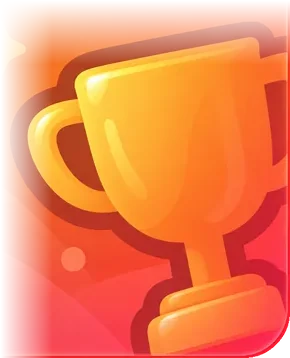
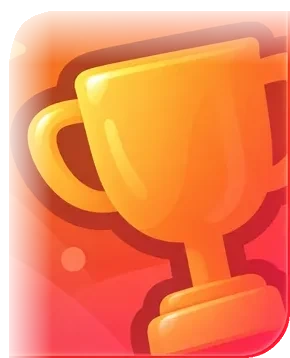
Startseite Handy und iPad: Kacheln mit gezeichneten Grafiken, schwarzer Saum der Kachel-Bilder entfernt (ep-2026-10-25-13)
Claude-Session: https://claude.ai/code/session_015F4ypguKCiePf7SvTB76p6

Changed region(s): [[0.1552, 0.0, 1.0, 0.0307], [0.0, 0.1536, 0.031, 1.0], [0.031, 0.0307, 0.1552, 0.1536]]

diff --git a/stil.js b/stil.js
@@ -736,3 +736,40 @@ const app = document.getElementById("app");
 if(app) new MutationObserver(suchen).observe(app, {childList:true, subtree:true});
 suchen();
 })();
+
+/* ================= Kacheln der Startseite Handy und iPad (App-Ansicht .ap-heute) mit gezeichneten Grafiken ================= */
+(function(){
+// Grund als Neun-Teile-Bild (Ecken und Rand unverzerrt), Symbol bündig rechts unten im selben Massstab wie der Rahmen,
+// so liegen die Rahmen genau aufeinander und nichts wird abgeschnitten. --s = Massstab je Kachel (unten per ResizeObserver).
+const K = "img/kacheln/", T = "html:root body .ap-heute";
+const G = {serie:[269,301], wissen:[288,337], level:[325,288], tag:[252,344], live:[252,287], fehler:[336,324], abzeichen:[290,358]};
+const M = {zufall:"serie", lib:"wissen", profil:"level", chat:"tag", live:"live", fehler:"fehler"};
+const s = "var(--s,.25)";
+const grund = n => `border-image:url(${K}${n}-grund.webp) 60 60 66 60 fill/calc(60px*${s}) calc(60px*${s}) calc(66px*${s}) calc(60px*${s}) stretch!important;border-style:solid!important;border-width:0!important;border-color:transparent!important;background:transparent!important`;
+const sym = n => `content:""!important;display:block!important;position:absolute!important;right:0!important;bottom:0!important;top:auto!important;left:auto!important;width:calc(${G[n][0]}px*${s})!important;height:calc(${G[n][1]}px*${s})!important;background:url(${K}${n}-symbol.webp) 0 0/100% 100% no-repeat!important;border-radius:0!important;opacity:1!important;transform:none!important;filter:none!important;animation:none!important;pointer-events:none;z-index:0!important`;
+const A = `${T} :is(.ap-tag>.apf,.ap-woche,.ap-fakt)`;
+const css = document.createElement("style"); css.id = "ep-app-kacheln-css";
+css.textContent = Object.entries(M).map(([x, n]) => `${T} .ap-tag>.apf[data-x=${x}]{${grund(n)}}\n${T} .ap-tag>.apf[data-x=${x}]::after{${sym(n)}}`).join("\n") + `
+${T} .ap-woche{${grund("serie")}}
+${T} .ap-woche::after{${sym("abzeichen")}}
+${T} .ap-fakt{${grund("wissen")}}
+${T} .ap-fakt::after{${sym("wissen")}}
+${A}{position:relative!important;border-radius:calc(40px*${s})!important;box-shadow:0 10px 22px -12px rgba(20,20,70,.55)!important;color:#fff!important;animation:none!important;overflow:visible!important}
+${T} .ap-tag>.apf .apico,${T} :is(.ap-fakt,.ap-woche)>svg{display:none!important}
+${A}::before{display:none!important}
+${A} :is(b,small,p,em,span){text-shadow:0 2px 6px rgba(20,10,60,.5);position:relative;z-index:1}
+${T} :is(.ap-woche,.ap-fakt) .aptx{max-width:68%}
+${T} .ap-tag>.apf[disabled]{filter:saturate(.8)}
+`;
+document.head.appendChild(css);
+const name = e => e.classList.contains("ap-woche") ? "abzeichen" : e.classList.contains("ap-fakt") ? "wissen" : M[e.dataset.x];
+function mass(e){ const g = G[name(e)]; if(!g) return; const r = e.getBoundingClientRect(); if(!r.height) return;
+  const breit = e.classList.contains("ap-woche") || e.classList.contains("ap-fakt");
+  const v = Math.min(r.height * (breit ? .92 : .58) / g[1], r.width * (breit ? .3 : .5) / g[0]);
+  e.style.setProperty("--s", v.toFixed(4)); }
+const ro = window.ResizeObserver ? new ResizeObserver(l => l.forEach(x => mass(x.target))) : null;
+function suchen(){ document.querySelectorAll(".ap-heute .ap-tag>.apf,.ap-heute .ap-woche,.ap-heute .ap-fakt").forEach(e => { if(e.dataset.ks) return; e.dataset.ks = "1"; mass(e); if(ro) ro.observe(e); }); }
+const app = document.getElementById("app") || document.body;
+new MutationObserver(suchen).observe(app, {childList:true, subtree:true});
+suchen();
+})();

diff --git a/index.html b/index.html
@@ -74,7 +74,7 @@ html.ep-boot #epBoot{display:flex;position:fixed;inset:0;z-index:99999;flex-dire
 <link rel="preload" as="image" href="img/kinder.webp">
 <script>/* Versionsprüfung: Ist diese Seite älter als die veröffentlichte Version (alter Speicher, Browser-Cache,
    Homescreen-App), alles Alte löschen und einmal frisch laden. Höchstens einmal pro 10 Minuten. */
-window.EP_BUILD="ep-2026-10-25-12";
+window.EP_BUILD="ep-2026-10-25-13";
 (function(){ try{
   if(window.claude || window.EP_NATIV || !/^https?:$/.test(location.protocol)){ window.__epVer="ok"; return; }   /* App (alles eingebaut) und Vorschau: keine Prüfung */
   /* Prüft, ob auf dem Server eine neuere Version liegt. Läuft beim Laden UND jedes Mal, wenn die Seite

diff --git a/sw.js b/sw.js
@@ -2,7 +2,7 @@
    Sorgt für schnelle Wiederholungsbesuche und Offline-Nutzung.
    Bei jeder Änderung an der App-Hülle VERSION hochzählen, damit alte Caches gelöscht werden. */
 
-const VERSION = "ep-2026-10-25-12";
+const VERSION = "ep-2026-10-25-13";
 const CACHE_HUELLE = VERSION + "-huelle";   // App-Hülle, Code, Daten
 // Bilder in einem festen Speicher: überlebt Updates (nur bilder/, img/, flags/), wird täglich still geprüft
 const CACHE_BILDER = "ep-bilder";

diff --git a/CLAUDE.md b/CLAUDE.md
@@ -33,6 +33,7 @@ _(leer)_
 
 ## Erledigt (neueste oben)
 
+- 25.10. Sitzung «Hauptseite»: Startseite Handy und iPad (App-Ansicht `.ap-heute`): Kacheln Zufällige Fragen, Bibliothek, Mein Level, Tagesquiz, Live, Fehler üben, Wochen-Challenge und Wusstest du mit Dejans Grafiken (Grund als Neun-Teile-Bild, Symbol bündig rechts unten im gleichen Massstab, `--s` per ResizeObserver), neuer Block am Ende von `stil.js`. Schwarzer Saum am Rand aller `img/kacheln/*-grund.webp` und `*-symbol.webp` entfernt (sah aus wie abgeschnitten, betrifft auch den Computer). Version ep-2026-10-25-13.
 - 25.10. Sitzung «Kacheln» (claude-34): Kopfzeile Computer passt jetzt immer in die Seitenbreite (Knöpfe 48 px hoch, rund 50 px, Logo ohne Mindestbreite), `stil.js`. Version ep-2026-10-25-12.
 - 25.10. Sitzung «Kacheln» (claude-34): Nur Computer (nicht `body.ep-app`): die vier Bereich-Kacheln der Startseite mit Dejans Grafiken über Neun-Teile-Skalierung (`border-image`, Ecken und Symbol unverzerrt, Massstab je Kachel per ResizeObserver), Dateien `img/kacheln/bereich-*.webp`. Kopfzeile: Anmelden, Qeels, Sprache (nur bei Deutsch), Ton (grau wenn stumm) und Menü als Grafiken, gleich hoch, Logo behält ab 1280 px seine Grösse. Alles im Block am Ende von `stil.js`. Version ep-2026-10-25-11.
 - 25.10. Sitzung «Hauptseite»: easyplay.ch ist live auf Deploio (Nine, Projekt n11017-easyplay, App easyplay, Datenbank easyplay-db). DNS bei Hostpoint: A easyplay.ch und *.easyplay.ch auf 178.209.60.14 (Adresse von Deploio, kann sich ändern), CNAME www auf easyplay.781bbba.deploio.app, TXT zur Verifizierung. GitHub Pages leitet jetzt nach easyplay.ch weiter. Jeder Push auf main baut die App bei Deploio neu (etwa 5 Minuten).
